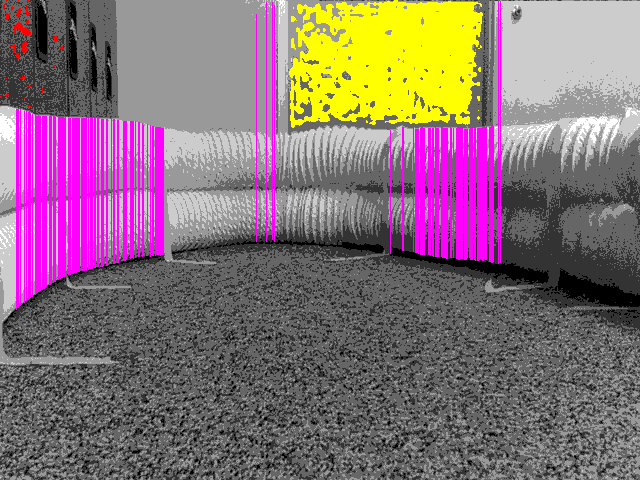
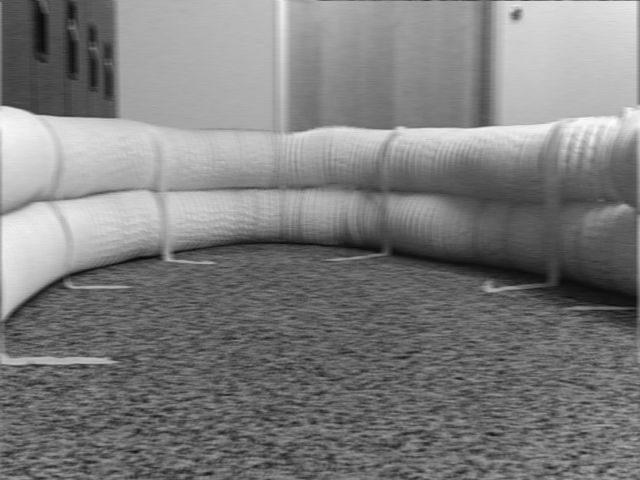
Bad Changes are bad and these are not quite those.

diff --git a/Process.java b/Process.java
@@ -70,7 +70,7 @@ class Process {
 
     public static void main(String[] args) {
         File[] images = {
-            new File ("wow.jpg"),
+            new File ("wow.jpg")/* ,
             new File ("blur.png"),
             new File ("vroom1.png"),
             new File ("vroom2.png"),
@@ -83,7 +83,8 @@ class Process {
             new File ("lightvroom4.png"),
             new File ("lightvroom2.png"),
             new File ("carvroom1.png"),
-            new File ("carvroom2.png")
+            new File ("carvroom2.png"),
+            new File("babyseaturtle.jpg") */
         };
         try {
             int[][] in = new int[images.length][];
@@ -107,22 +108,23 @@ class Process {
                 rgbs = in[j % images.length];
                 newrgbs = out[j % images.length];
                 long start_time = System.nanoTime();
-                posterizeImageInt(rgbs, newrgbs, 65);
-                int[][] tb = scanImage(newrgbs, outImages[j % images.length].getWidth(), outImages[j % images.length].getHeight(), WallColorSeqs);
+                blurAverage2(rgbs, newrgbs);
+                // posterizeImageInt(newrgbs, newrgbs, 65);
+                // int[][] tb = scanImage(newrgbs, outImages[j % images.length].getWidth(), outImages[j % images.length].getHeight(), WallColorSeqs);
                 // String csv = imageToCSV(newrgbs, outImages[j % images.length].getWidth(), outImages[j % images.length].getHeight());
                 // try (PrintStream outCSV = new PrintStream(new FileOutputStream("image" + j  + ".csv"))) {
                 //     outCSV.print(csv);
                 // }
-                codeToRGB(newrgbs, newrgbs);
-                for(int k = 0; k < tb[0].length; k++) {
-                    if(tb[0][k] > 0 && tb[1][k] > 0) {
-                        for(int m = tb[1][k]; m < tb[0][k]; m ++) {
-                            newrgbs[k + tb[0].length * m] = ColorArr[4];
-                        }
-                    }
-                }
+                // codeToRGB(newrgbs, newrgbs);
+                // for(int k = 0; k < tb[0].length; k++) {
+                //     if(tb[0][k] > 0 && tb[1][k] > 0) {
+                //         for(int m = tb[1][k]; m < tb[0][k]; m ++) {
+                //             newrgbs[k + tb[0].length * m] = ColorArr[4];
+                //         }
+                //     }
+                // }
                 out[j % images.length] = newrgbs;
-                System.out.println();
+                // System.out.println();
                 long end_time = System.nanoTime();
                 double difference = (end_time - start_time) / 1e6;
                 System.out.println(difference);
@@ -136,6 +138,78 @@ class Process {
         }
     }
 
+    static void averageByRadius(int[] inArray, int[] outArray, int radius) {
+        int[] combinees = new int[radius];
+        for(int i = 0; i < inArray.length; i ++) {
+            for(int j = 0; j < radius; j ++ ) {
+                try {
+                    combinees[j] = inArray[i+j];
+                } catch(ArrayIndexOutOfBoundsException e) {
+                    combinees[j] = inArray[inArray.length - 1];
+                }
+            }
+            outArray[i] = splitAndCombine(combinees);
+        }
+    }
+    
+    static void blurAverage2(int[] inArray, int[] outArray) {
+        int sumr = (inArray[0] >> 16 & 0xFF) << 3;
+        int sumg = (inArray[0] >> 8 & 0xFF) << 3;
+        int sumb = (inArray[0] & 0xFF) << 3;
+        for(int i = 0; i < inArray.length; i ++) {
+            if(i + 4 < inArray.length) {
+                sumr += 0xFF & inArray[i + 4] >> 16;
+                sumg += 0xFF & inArray[i + 4] >> 8;
+                sumb += 0xFF & inArray[i + 4];
+            } else {
+                sumr += 0xFF & inArray[inArray.length - 1] >> 16;
+                sumg += 0xFF & inArray[inArray.length - 1] >> 8;
+                sumb += 0xFF & inArray[inArray.length - 1];
+            }
+            if(i - 4 >= 0) {
+                sumr -= 0xFF & inArray[i - 4] >> 16;
+                sumg -= 0xFF & inArray[i - 4] >> 8;
+                sumb -= 0xFF & inArray[i - 4]; 
+            } else {
+                sumr -= 0xFF & inArray[0] >> 16;
+                sumg -= 0xFF & inArray[0] >> 8;
+                sumb -= 0xFF & inArray[0]; 
+            }
+            int finr = sumr >> 3;
+            int fing = sumg >> 3;
+            int finb = sumb >> 3;
+            if(fing < 0) {
+                 System.out.println((i % 1920) + "," + (i / 1920)); 
+                 System.out.println("Ahead Channels: RED " + (0xFF & inArray[i + 4] >> 16) +", GREEN " + (0xFF & inArray[i + 4] >> 8) +", BLUE " + (0xFF & inArray[i + 4]));
+                 System.out.println("Behind Channels: RED " + (0xFF & inArray[i - 4] >> 16) +", GREEN " + (0xFF & inArray[i - 4] >> 8) +", BLUE " + (0xFF & inArray[i - 4]));
+                 System.out.println("Behind Channels: RED " + (0xFF & inArray[i - 5] >> 16) +", GREEN " + (0xFF & inArray[i - 5] >> 8) +", BLUE " + (0xFF & inArray[i - 5]));
+                 System.out.println("Behind Channels: RED " + (0xFF & inArray[i - 6] >> 16) +", GREEN " + (0xFF & inArray[i - 6] >> 8) +", BLUE " + (0xFF & inArray[i - 6]));
+                 System.out.println("Behind Channels: RED " + (0xFF & inArray[i - 7] >> 16) +", GREEN " + (0xFF & inArray[i - 7] >> 8) +", BLUE " + (0xFF & inArray[i - 7]));
+                }
+            outArray[i] = fing << 16 | fing << 8 | fing;
+        }
+    }
+
+    static int splitAndCombine(int... rgbs) {
+        int racc = 0, gacc = 0, bacc = 0;
+        for(int rgb: rgbs) {
+            racc += (rgb >> 16) & 0xFF;
+            gacc += (rgb >> 8) & 0xFF;
+            bacc += rgb & 0xFF;
+        }
+        racc /= rgbs.length;
+        gacc /= rgbs.length;
+        bacc /= rgbs.length;
+        return racc << 16 | gacc << 8 | bacc;
+    }
+
+
+    static int p(int rgb, int n) {
+        int r = (256 / n) * (((rgb >> 16) & 0xFF) / (256 / n));
+        int g = (256 / n) * (((rgb >> 8) & 0xFF) / (256 / n));
+        int b = (256 / n) * (((rgb) & 0xFF) / (256 / n));
+        return r << 16 | g << 8 | b;
+    }
 
 
     static int posterizePixelInt(int rgb, int dt) {
@@ -194,7 +268,7 @@ class Process {
                             numColor = 0;
                         }
                     }
-                    if(codeArray[j*width + i] == 6){
+                    if(codeArray[j*width + i] == 7){
                         wallTops[i] = currTop;
                         wallBottoms[i] = j;
                         break;
@@ -346,6 +420,21 @@ class Process {
             out += imageArray[height + i] + "\n";
         }
         return out;
+    }
+
+    static String heightsToCSV(int[][] heightsArray) {
+        String out = "";
+        for(int i = 0; i < heightsArray[0].length; i ++) {
+            out += i + ", " + heightsArray[0][i] + ", " + heightsArray[1][i] + "\n";
+        }
+        return out;
+    }
+
+    static void writeCSV(String toWrite, String fileName) {
+        File outFile = new File(fileName);
+        try (PrintStream outCSV = new PrintStream(new FileOutputStream("image" + j  + ".csv"))) {
+            outCSV.print(toWrite);
+        }
     }
 
     static int posterizePixelHSL(int rgb, int dt) {
